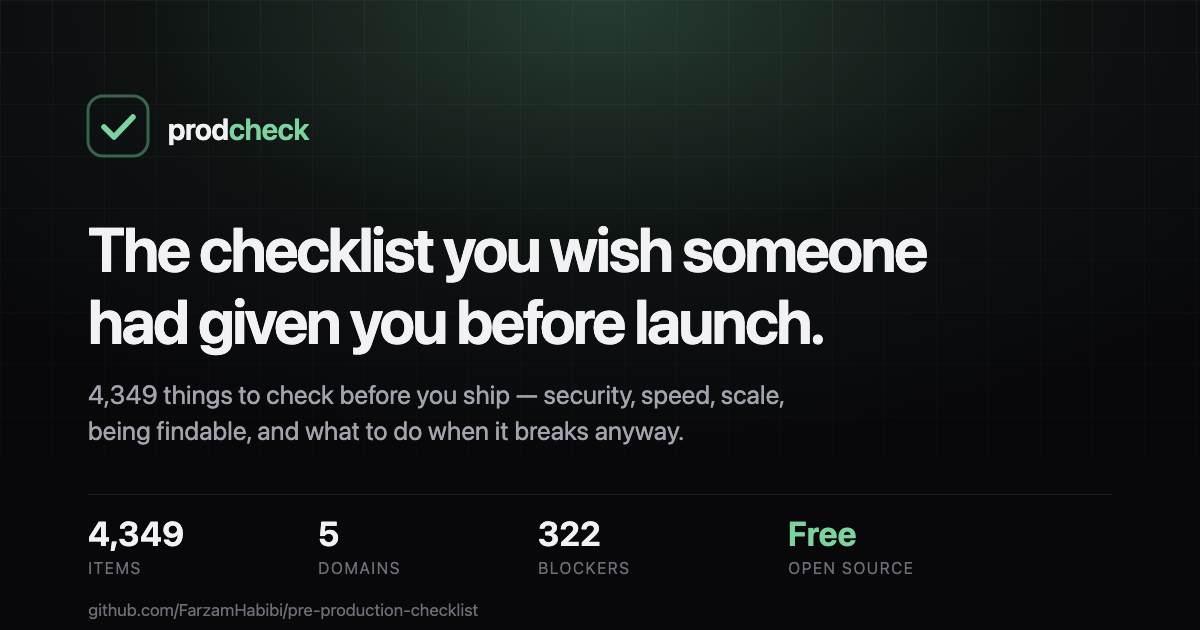
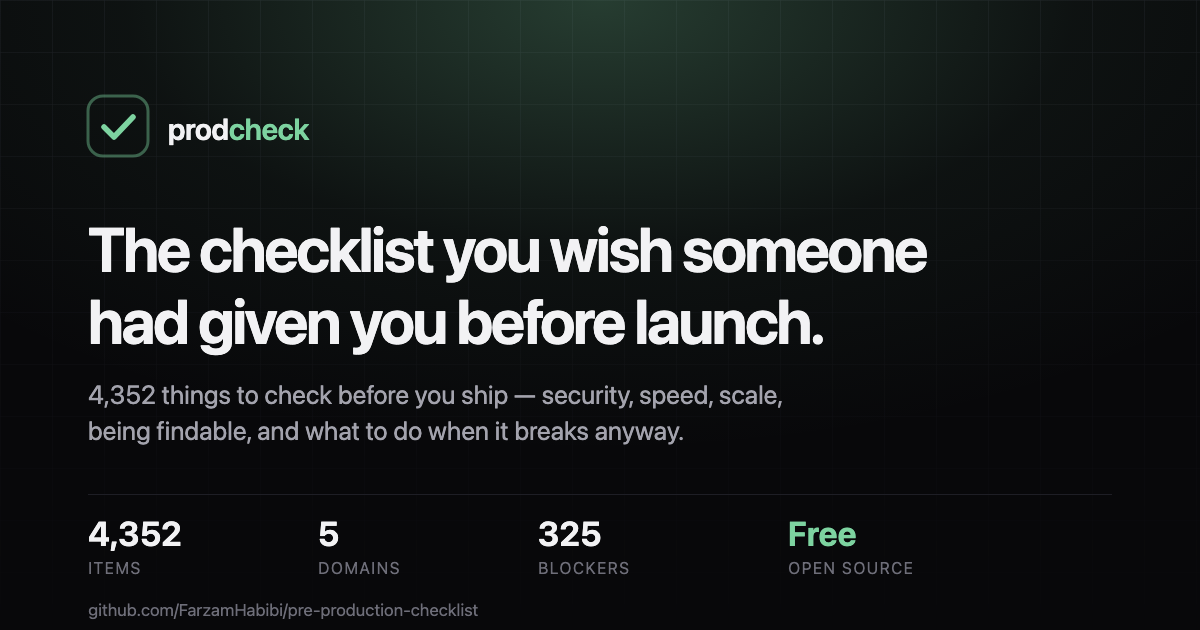
three checks for an alert that fires into the void

diff --git a/demo/chat.html b/demo/chat.html
@@ -120,9 +120,9 @@ const DATA = {
   "tool": {
     "name": "checklist_for_stack",
     "args": "<span class=\"k\">stacks</span>: [\"express\", \"postgres\"]\n<span class=\"k\">release_gate_only</span>: true",
-    "returned": "324 items"
+    "returned": "327 items"
   },
-  "verdictLead": "Two of the 324 are true here, and I can show you where.",
+  "verdictLead": "Two of the 327 are true here, and I can show you where.",
   "findings": [
     {
       "where": "src/app.js:24",

diff --git a/demo/index.html b/demo/index.html
@@ -184,8 +184,8 @@
 <script>
 /* Filled by scripts/build_demo.py from data/checklist.json and the eval fixture. */
 const DATA = {
-  "total": "4,349",
-  "scoped": 322,
+  "total": "4,352",
+  "scoped": 325,
   "stack": [
     "Express",
     "PostgreSQL",

diff --git a/README.md b/README.md
@@ -7,7 +7,7 @@ infrastructure, the deploy pipeline, and increasingly the AI agents too — and 
 have a security team to hand it to.
 
 <!-- counts:begin -->
-**4,349 items across 96 checklists** in 5 domains. 88% of them apply to any stack.
+**4,352 items across 96 checklists** in 5 domains. 88% of them apply to any stack.
 <!-- counts:end -->
 
 [![npm](https://img.shields.io/npm/v/prodcheck?color=cb3837&logo=npm)](https://www.npmjs.com/package/prodcheck)
@@ -72,7 +72,7 @@ block a launch. If it cannot run commands, it tells you what to run yourself.
 <!-- start-prompt:begin -->
 ```text
 I want to get my project ready to ship. Use prodcheck:
-a free, open-source pre-production checklist of 4,349 items
+a free, open-source pre-production checklist of 4,352 items
 covering security, performance, scale, integrations and what to
 do after launch.
 
@@ -154,7 +154,7 @@ checklists/
 ├── performance/             313   Lighthouse, and what users actually feel
 ├── scale/                   286   surviving 10× the load
 ├── integrations/            192   search, analytics, monitoring
-├── post-launch/             204   when it goes wrong anyway
+├── post-launch/             207   when it goes wrong anyway
 └── stacks/                  542   26 products, spanning every domain
 ```
 
@@ -291,7 +291,7 @@ each item asks is not *did you respond well* — it is **is the answer already d
 
 | | Items | | | Items |
 | --- | ---: | --- | --- | ---: |
-| [Can you act at all](checklists/post-launch/01-readiness.md) | 39 | | [Outages & dependency failure](checklists/post-launch/05-outage-and-dependencies.md) | 27 |
+| [Can you act at all](checklists/post-launch/01-readiness.md) | 42 | | [Outages & dependency failure](checklists/post-launch/05-outage-and-dependencies.md) | 27 |
 | [The first fifteen minutes](checklists/post-launch/02-first-15-minutes.md) | 20 | | [Rollback & kill switches](checklists/post-launch/06-rollback-and-kill-switches.md) | 20 |
 | [You have been breached](checklists/post-launch/03-security-incident.md) | 35 | | [Telling people](checklists/post-launch/07-communication.md) | 18 |
 | [Data loss & corruption](checklists/post-launch/04-data-loss.md) | 26 | | [Learning & drills](checklists/post-launch/08-learning-and-drills.md) | 19 |
@@ -356,7 +356,7 @@ in a stack file at all. Files for Fly.io, Auth0 and Clerk are wanted; see [CONTR
 
 1. **Copy the files you need** into your own repo. They're working documents, meant to be
    edited and committed next to your code.
-2. **Mark `[N/A]` aggressively.** No product on earth needs all 4,349 items. No mobile
+2. **Mark `[N/A]` aggressively.** No product on earth needs all 4,352 items. No mobile
    app? `core/11` and `core/12` are 147 instant `[N/A]`s. Being honest about scope is what
    makes the remainder trustworthy.
 3. **Record every finding.** An unrecorded finding is one you'll rediscover in six months.
@@ -419,7 +419,7 @@ anything verified on the reader's behalf.
 
 ## Command line
 
-Generate a checklist scoped to your project, instead of reading 4,349 items:
+Generate a checklist scoped to your project, instead of reading 4,352 items:
 
 ```bash
 npx prodcheck security --stack django -o SECURITY.md
@@ -520,16 +520,16 @@ Next.js + Supabase app"* and it pulls the relevant items itself.
 
 ## What it costs to run
 
-A fair question if you are about to point a paid model at 4,349 items. These are the
+A fair question if you are about to point a paid model at 4,352 items. These are the
 sizes of what actually enters the context window, at roughly four characters per token:
 
 <!-- cost:begin -->
 | What you pull | Items | ≈ tokens |
 | --- | --- | --- |
-| `--gate` | 322 | 5,000 |
-| `--gate --stack django` | 324 | 5,000 |
+| `--gate` | 325 | 5,200 |
+| `--gate --stack django` | 327 | 5,200 |
 | `security --area core` | 1,491 | 19,400 |
-| everything, every stack | 4,349 | 77,100 |
+| everything, every stack | 4,352 | 77,300 |
 <!-- cost:end -->
 
 That is the input for one pass. What the review itself costs on top depends on how much
@@ -705,7 +705,7 @@ This repository was compiled and expanded with [Claude](https://claude.com/claud
 (Anthropic) and [ChatGPT](https://chatgpt.com) (OpenAI), working from a real
 pre-production review rather than generating checklist items from scratch. They did the parts that don't fit in one
 person's head: cross-referencing hundreds of findings against OWASP categories, keeping
-4,349 items consistent in wording and structure, and spotting the gaps between sections.
+4,352 items consistent in wording and structure, and spotting the gaps between sections.
 
 That's worth stating plainly for two reasons.
 

diff --git a/checklists/README.md b/checklists/README.md
@@ -5,7 +5,7 @@
 
 Every checklist is a standalone Markdown file. Copy the ones you need into your own repo and edit them there — they are meant to be committed alongside your code.
 
-**4,349 items** · 3,807 of them (88%) name no product at all.
+**4,352 items** · 3,810 of them (88%) name no product at all.
 
 | Domain | Items | |
 | --- | ---: | --- |
@@ -13,7 +13,7 @@ Every checklist is a standalone Markdown file. Copy the ones you need into your 
 | [**Scale**](#scale) | 301 | Surviving ten times the load, and knowing what breaks first. |
 | [**Performance**](#performance) | 338 | Being fast for a real user, with Lighthouse agreeing. |
 | [**Integrations**](#integrations) | 200 | Being connected: search, analytics, monitoring. |
-| [**Post-launch**](#post-launch) | 204 | When it goes wrong anyway: is the response already decided? |
+| [**Post-launch**](#post-launch) | 207 | When it goes wrong anyway: is the response already decided? |
 | [Stack supplements](#stack-supplements) | 542 | 26 products, only if you use them |
 
 ---
@@ -156,7 +156,7 @@ When it goes wrong anyway: is the response already decided?
 
 | Checklist | Items |
 | --- | ---: |
-| [Can You Act At All](post-launch/01-readiness.md) | 39 |
+| [Can You Act At All](post-launch/01-readiness.md) | 42 |
 | [The First Fifteen Minutes](post-launch/02-first-15-minutes.md) | 20 |
 | [You Have Been Breached](post-launch/03-security-incident.md) | 35 |
 | [Data Loss & Corruption](post-launch/04-data-loss.md) | 26 |
@@ -164,7 +164,7 @@ When it goes wrong anyway: is the response already decided?
 | [Rollback & Kill Switches](post-launch/06-rollback-and-kill-switches.md) | 20 |
 | [Telling People](post-launch/07-communication.md) | 18 |
 | [Learning & Drills](post-launch/08-learning-and-drills.md) | 19 |
-| **Total** | **204** |
+| **Total** | **207** |
 
 ---
 

diff --git a/docs/launch.md b/docs/launch.md
@@ -16,12 +16,12 @@ Counts to verify first: run `npx prodcheck info`.
 
 Alternatives, shorter:
 
-> 4,349 things to check before you ship
+> 4,352 things to check before you ship
 > Everything to check before production. Free and open source.
 
 ## One-liner (Product Hunt "description", ~260 characters)
 
-> A free, open-source pre-production checklist for solo founders — 4,349 items across
+> A free, open-source pre-production checklist for solo founders — 4,352 items across
 > security, performance, scale, integrations, and what to do after it breaks. Works with
 > any AI assistant through MCP, or as a file you commit to your repo.
 
@@ -45,7 +45,7 @@ The one that matters. Product Hunt readers skim the maker comment before the pag
 > Afterwards the checklist turned out to be more useful than the review. The findings were
 > specific to our code. The questions apply to anyone shipping a product.
 >
-> So it is open source now: **4,349 items across five domains** — security, performance,
+> So it is open source now: **4,352 items across five domains** — security, performance,
 > scale, integrations, and what to do after it goes wrong. 88% of them name no product at
 > all, so they work whatever you build with.
 >
@@ -81,7 +81,7 @@ The one that matters. Product Hunt readers skim the maker comment before the pag
 
 Title — no marketing verbs, HN punishes them:
 
-> Show HN: A 4,349-item pre-production checklist for solo founders
+> Show HN: A 4,352-item pre-production checklist for solo founders
 
 Body:
 
@@ -111,7 +111,7 @@ Body:
 >
 > Nothing covered more than a fraction of what we actually run, so I wrote the checklist.
 >
-> It's open source now. 4,349 items. Free.
+> It's open source now. 4,352 items. Free.
 >
 > 🧵
 

diff --git a/ALL.md b/ALL.md
@@ -5618,6 +5618,9 @@ alive, and whether it can still reach you — a different failure, and a quieter
 * [ ] Verify a step conditioned on a secret being present cannot pass by being skipped — an unset key should turn the build red, not quietly remove the notification.
 * [ ] Verify every HTTP call in a check fails on an error status, since a plain `curl` exits zero on 401 or 404 and a check reading its empty output concludes nothing is wrong.
 * [ ] Verify you have looked at the run history, not the last run: consecutive cancellations and a silent inbox look identical to a system finding nothing wrong.
+* [ ] Verify every notification reads its sender and recipient from configuration rather than carrying a hardcoded address, since a check that asserts an alert was sent asserts nothing about whether it arrived somewhere a person can read.
+* [ ] Verify at least one real alert from each notification path has been received by a human, not merely observed leaving: a path that has never delivered since the day it was written looks exactly like a path with nothing to report.
+* [ ] Verify automated issue or ticket creation deduplicates against what is already open and holds a concurrency guard, because one persistently failing check otherwise files the same issue on every run until the volume is indistinguishable from having no alerting at all.
 
 ## The gate
 

diff --git a/checklists/post-launch/01-readiness.md b/checklists/post-launch/01-readiness.md
@@ -69,6 +69,9 @@ alive, and whether it can still reach you — a different failure, and a quieter
 * [ ] Verify a step conditioned on a secret being present cannot pass by being skipped — an unset key should turn the build red, not quietly remove the notification.
 * [ ] Verify every HTTP call in a check fails on an error status, since a plain `curl` exits zero on 401 or 404 and a check reading its empty output concludes nothing is wrong.
 * [ ] Verify you have looked at the run history, not the last run: consecutive cancellations and a silent inbox look identical to a system finding nothing wrong.
+* [ ] Verify every notification reads its sender and recipient from configuration rather than carrying a hardcoded address, since a check that asserts an alert was sent asserts nothing about whether it arrived somewhere a person can read.
+* [ ] Verify at least one real alert from each notification path has been received by a human, not merely observed leaving: a path that has never delivered since the day it was written looks exactly like a path with nothing to report.
+* [ ] Verify automated issue or ticket creation deduplicates against what is already open and holds a concurrency guard, because one persistently failing check otherwise files the same issue on every run until the volume is indistinguishable from having no alerting at all.
 
 ## The gate
 

diff --git a/data/README.md b/data/README.md
@@ -3,7 +3,7 @@
 [`checklist.json`](checklist.json) is every item in this repository as structured data,
 validated against [`schema.json`](schema.json). It exists so tools — a CLI, an MCP
 server, a website, your own script — can filter the checklist instead of making people
-read 4,349 items.
+read 4,352 items.
 
 **Generated. Do not edit.** The Markdown under `checklists/` is the source of truth.
 Run `./scripts/build.sh` to regenerate.
@@ -54,7 +54,7 @@ reworded check is a different check, and anything tracking completion state shou
 
 ### There is no `severity` field
 
-By design. Assigning a severity to 4,349 items by heuristic would be invention presented
+By design. Assigning a severity to 4,352 items by heuristic would be invention presented
 as data, and every consumer would inherit the guess.
 
 `release_gate` is the one priority signal, and it is honest: it means the item lives in a

diff --git a/docs/integrations/chinese-models.md b/docs/integrations/chinese-models.md
@@ -48,12 +48,12 @@ Works with all four, no setup:
 npx prodcheck --gate -o BLOCKERS.md
 ```
 
-Then paste a [prompt](../prompts.md) followed by the file. Use `--gate` (322 items) rather
+Then paste a [prompt](../prompts.md) followed by the file. Use `--gate` (325 items) rather
 than a whole domain — it leaves room for the code, which is the part that matters.
 
 ## Context windows
 
-DeepSeek, Kimi and GLM all offer long-context models, which is tempting: paste all 4,349
+DeepSeek, Kimi and GLM all offer long-context models, which is tempting: paste all 4,352
 items and be done. Do not. A model given a huge checklist and a small diff reviews the
 checklist. Narrowing first with `--gate`, `--domain` or `--search` produces better
 findings from every model, including the expensive ones.

diff --git a/docs/mcp-clients.md b/docs/mcp-clients.md
@@ -199,7 +199,7 @@ npx prodcheck --search "rate limit"           # one topic
 npx prodcheck performance -n 100              # first 100 items
 ```
 
-`npx prodcheck --gate` is usually the right first paste: 322 items across four domains,
+`npx prodcheck --gate` is usually the right first paste: 325 items across four domains,
 all of them things that should stop a release. Add `--stack` for the products you use —
 a leaked `service_role` key or an unaudited RLS policy blocks a launch too, and those
 items only appear when you name the product.

diff --git a/CONTRIBUTING.md b/CONTRIBUTING.md
@@ -52,7 +52,7 @@ This is the only rule that really matters:
 > **If you can rewrite the item without naming a specific product and it still makes
 > sense, it belongs in the domain checklists, not in `stacks/`.**
 
-`stacks/` is for the genuine remainder — currently 542 items out of 4,349 (12.5%).
+`stacks/` is for the genuine remainder — currently 542 items out of 4,352 (12.5%).
 Please keep it that small. A checklist that reads as "written for someone else's stack"
 is a checklist nobody finishes.
 

diff --git a/docs/prompts.md b/docs/prompts.md
@@ -26,7 +26,7 @@ release blockers. Use this one if you do not know which of the others you want.
 <!-- start-prompt:begin -->
 ```text
 I want to get my project ready to ship. Use prodcheck:
-a free, open-source pre-production checklist of 4,349 items
+a free, open-source pre-production checklist of 4,352 items
 covering security, performance, scale, integrations and what to
 do after launch.
 
